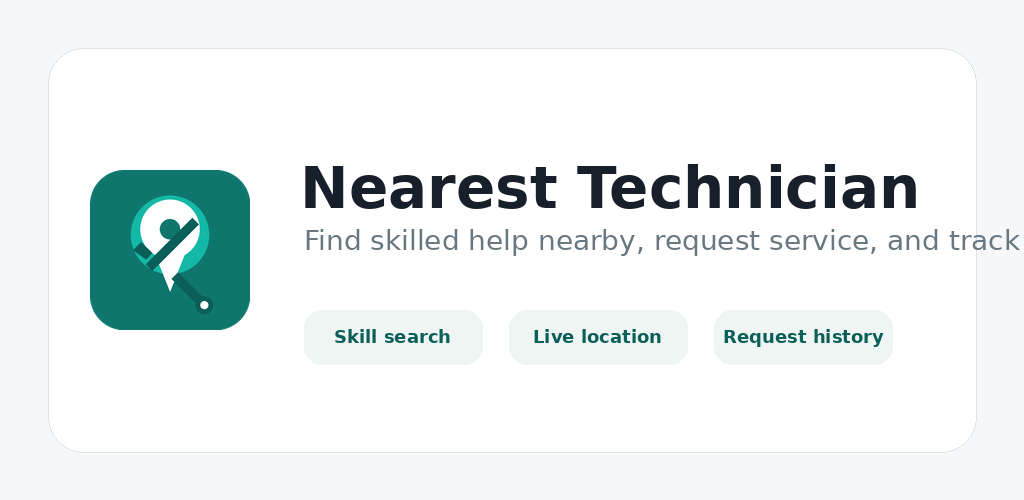
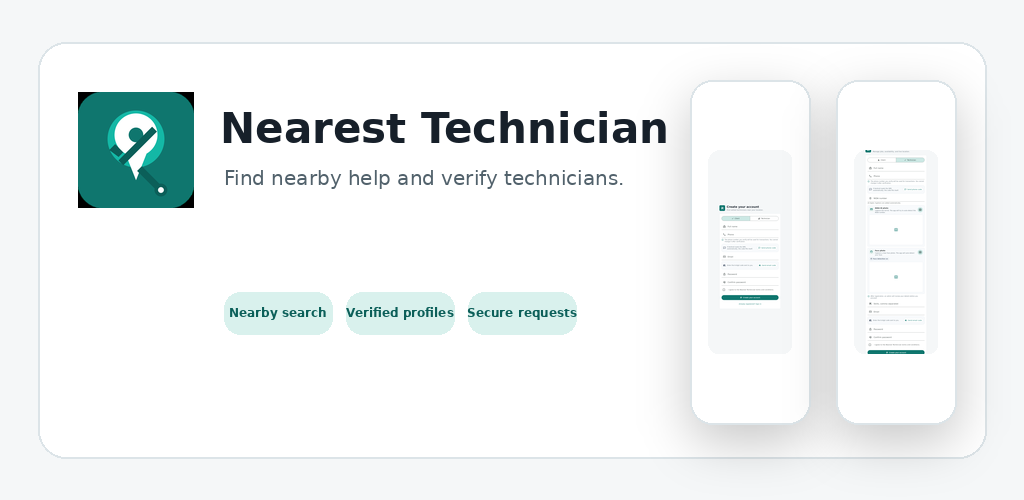
Create store assets from app screenshots

diff --git a/tools/create_store_assets_from_screenshots.py b/tools/create_store_assets_from_screenshots.py
@@ -1,0 +1,152 @@
+#!/usr/bin/env python3
+from pathlib import Path
+from PIL import Image, ImageDraw, ImageFont, ImageFilter
+
+ROOT = Path(__file__).resolve().parents[1]
+SRC = ROOT / "store_assets/source_screenshots"
+PLAY = ROOT / "store_assets/play_store"
+APP_STORE = ROOT / "store_assets/app_store"
+
+BG = "#F5F7F8"
+SURFACE = "#FFFFFF"
+TEXT = "#17202A"
+MUTED = "#51616B"
+TEAL = "#0F766E"
+TEAL_DARK = "#0B5F59"
+TEAL_SOFT = "#D9F1ED"
+BORDER = "#DCE4E8"
+
+
+def font(size, bold=False):
+    candidates = [
+        "/usr/share/fonts/truetype/dejavu/DejaVuSans-Bold.ttf" if bold else "/usr/share/fonts/truetype/dejavu/DejaVuSans.ttf",
+        "/usr/share/fonts/truetype/liberation/LiberationSans-Bold.ttf" if bold else "/usr/share/fonts/truetype/liberation/LiberationSans-Regular.ttf",
+    ]
+    for item in candidates:
+        if Path(item).exists():
+            return ImageFont.truetype(item, size)
+    return ImageFont.load_default()
+
+
+def text(draw, xy, value, size, fill=TEXT, bold=False, anchor=None):
+    draw.text(xy, value, font=font(size, bold), fill=fill, anchor=anchor)
+
+
+def rounded(draw, box, radius, fill, outline=None, width=1):
+    draw.rounded_rectangle(box, radius=radius, fill=fill, outline=outline, width=width)
+
+
+def contain(image, box):
+    w = box[2] - box[0]
+    h = box[3] - box[1]
+    copy = image.copy()
+    copy.thumbnail((w, h), Image.Resampling.LANCZOS)
+    x = box[0] + (w - copy.width) // 2
+    y = box[1] + (h - copy.height) // 2
+    return copy, (x, y)
+
+
+def crop_phone_content(image):
+    w, h = image.size
+    return image.crop((int(w * 0.17), int(h * 0.04), int(w * 0.83), int(h * 0.94)))
+
+
+def crop_tablet_content(image):
+    w, h = image.size
+    return image.crop((int(w * 0.28), int(h * 0.04), int(w * 0.72), int(h * 0.94)))
+
+
+def frame_screenshot(base, screenshot, box, radius, shadow=True):
+    if shadow:
+        shadow_layer = Image.new("RGBA", base.size, (0, 0, 0, 0))
+        shadow_draw = ImageDraw.Draw(shadow_layer)
+        rounded(shadow_draw, box, radius, (0, 0, 0, 55))
+        shadow_layer = shadow_layer.filter(ImageFilter.GaussianBlur(24))
+        base.alpha_composite(shadow_layer, (0, 18))
+
+    draw = ImageDraw.Draw(base)
+    rounded(draw, box, radius, SURFACE, BORDER, 2)
+    inner = (box[0] + 18, box[1] + 18, box[2] - 18, box[3] - 18)
+    shot, pos = contain(screenshot, inner)
+    mask = Image.new("L", shot.size, 0)
+    mask_draw = ImageDraw.Draw(mask)
+    mask_draw.rounded_rectangle((0, 0, shot.width, shot.height), radius=max(radius - 18, 12), fill=255)
+    base.paste(shot.convert("RGBA"), pos, mask)
+
+
+def make_store_screenshot(source_name, out_path, size, title, subtitle, tablet=False):
+    out_path.parent.mkdir(parents=True, exist_ok=True)
+    base = Image.new("RGBA", size, BG)
+    draw = ImageDraw.Draw(base)
+
+    accent_h = int(size[1] * 0.18)
+    rounded(draw, (-40, -40, size[0] + 40, accent_h), 0, TEAL_SOFT)
+    rounded(draw, (int(size[0] * 0.06), int(size[1] * 0.065), int(size[0] * 0.12), int(size[1] * 0.095)), 18, TEAL)
+    text(draw, (int(size[0] * 0.15), int(size[1] * 0.058)), title, int(size[0] * (0.044 if tablet else 0.052)), TEXT, True)
+    text(draw, (int(size[0] * 0.15), int(size[1] * 0.105)), subtitle, int(size[0] * (0.020 if tablet else 0.026)), MUTED)
+
+    raw = Image.open(SRC / source_name).convert("RGBA")
+    crop = crop_tablet_content(raw) if tablet else crop_phone_content(raw)
+    margin_x = int(size[0] * (0.13 if tablet else 0.12))
+    top = int(size[1] * 0.205)
+    bottom = int(size[1] * 0.965)
+    frame_screenshot(base, crop, (margin_x, top, size[0] - margin_x, bottom), int(size[0] * 0.035))
+    base.convert("RGB").save(out_path, quality=95)
+
+
+def feature_graphic():
+    size = (1024, 500)
+    base = Image.new("RGBA", size, BG)
+    draw = ImageDraw.Draw(base)
+    rounded(draw, (0, 0, size[0], size[1]), 0, BG)
+    rounded(draw, (38, 42, 986, 458), 28, SURFACE, BORDER, 2)
+
+    icon = Image.open(PLAY / "app-icon-512.png").convert("RGBA")
+    icon.thumbnail((116, 116), Image.Resampling.LANCZOS)
+    base.alpha_composite(icon, (78, 92))
+    text(draw, (220, 104), "Nearest Technician", 42, TEXT, True)
+    text(draw, (224, 166), "Find nearby help and verify technicians.", 20, MUTED)
+
+    left = crop_phone_content(Image.open(SRC / "phone-client.png").convert("RGBA"))
+    right = crop_phone_content(Image.open(SRC / "phone-documents.png").convert("RGBA"))
+    frame_screenshot(base, left, (690, 80, 810, 424), 22, shadow=True)
+    frame_screenshot(base, right, (836, 80, 956, 424), 22, shadow=True)
+
+    for i, label in enumerate(["Nearby search", "Verified profiles", "Secure requests"]):
+        x = 224 + i * 122
+        rounded(draw, (x, 292, x + 108, 334), 16, TEAL_SOFT, None)
+        text(draw, (x + 54, 305), label, 12, TEAL_DARK, True, "ma")
+
+    base.convert("RGB").save(PLAY / "feature-graphic-1024x500.png", quality=95)
+
+
+def main():
+    phone_items = [
+        ("phone-client.png", "phone-01-client-registration.png", "Client registration", "Verify phone, email, and request service faster."),
+        ("phone-technician.png", "phone-02-technician-registration.png", "Technician onboarding", "Collect skills, contact details, and service readiness."),
+        ("phone-documents.png", "phone-03-id-face-verification.png", "ID and face checks", "Camera-first verification with automatic detection support."),
+        ("phone-login.png", "phone-04-secure-login.png", "Secure sign in", "Return quickly with verified account credentials."),
+    ]
+    tablet_items = [
+        ("tablet-client.png", "tablet-01-client-registration.png", "Client registration", "A spacious form for verified service requests."),
+        ("tablet-technician.png", "tablet-02-technician-registration.png", "Technician onboarding", "Technicians add skills, phone, and service details."),
+        ("tablet-documents.png", "tablet-03-id-face-verification.png", "Document verification", "NIDA and face capture controls for review."),
+        ("tablet-login.png", "tablet-04-secure-login.png", "Secure sign in", "Fast access for clients and technicians."),
+    ]
+    iphone_items = [(name.replace("phone", "iphone_69"), out, title, subtitle) for name, out, title, subtitle in phone_items]
+    ipad_items = [(name.replace("tablet", "ipad_13"), out, title, subtitle) for name, out, title, subtitle in tablet_items]
+
+    for src, out, title, subtitle in phone_items:
+        make_store_screenshot(src, PLAY / "screenshots/phone" / out, (1080, 1920), title, subtitle)
+    for src, out, title, subtitle in tablet_items:
+        make_store_screenshot(src, PLAY / "screenshots/tablet" / out, (1600, 2560), title, subtitle, tablet=True)
+    for src, out, title, subtitle in iphone_items:
+        make_store_screenshot(src, APP_STORE / "screenshots/iphone-6.9" / out, (1290, 2796), title, subtitle)
+    for src, out, title, subtitle in ipad_items:
+        make_store_screenshot(src, APP_STORE / "screenshots/ipad-13" / out, (2048, 2732), title, subtitle, tablet=True)
+
+    feature_graphic()
+
+
+if __name__ == "__main__":
+    main()